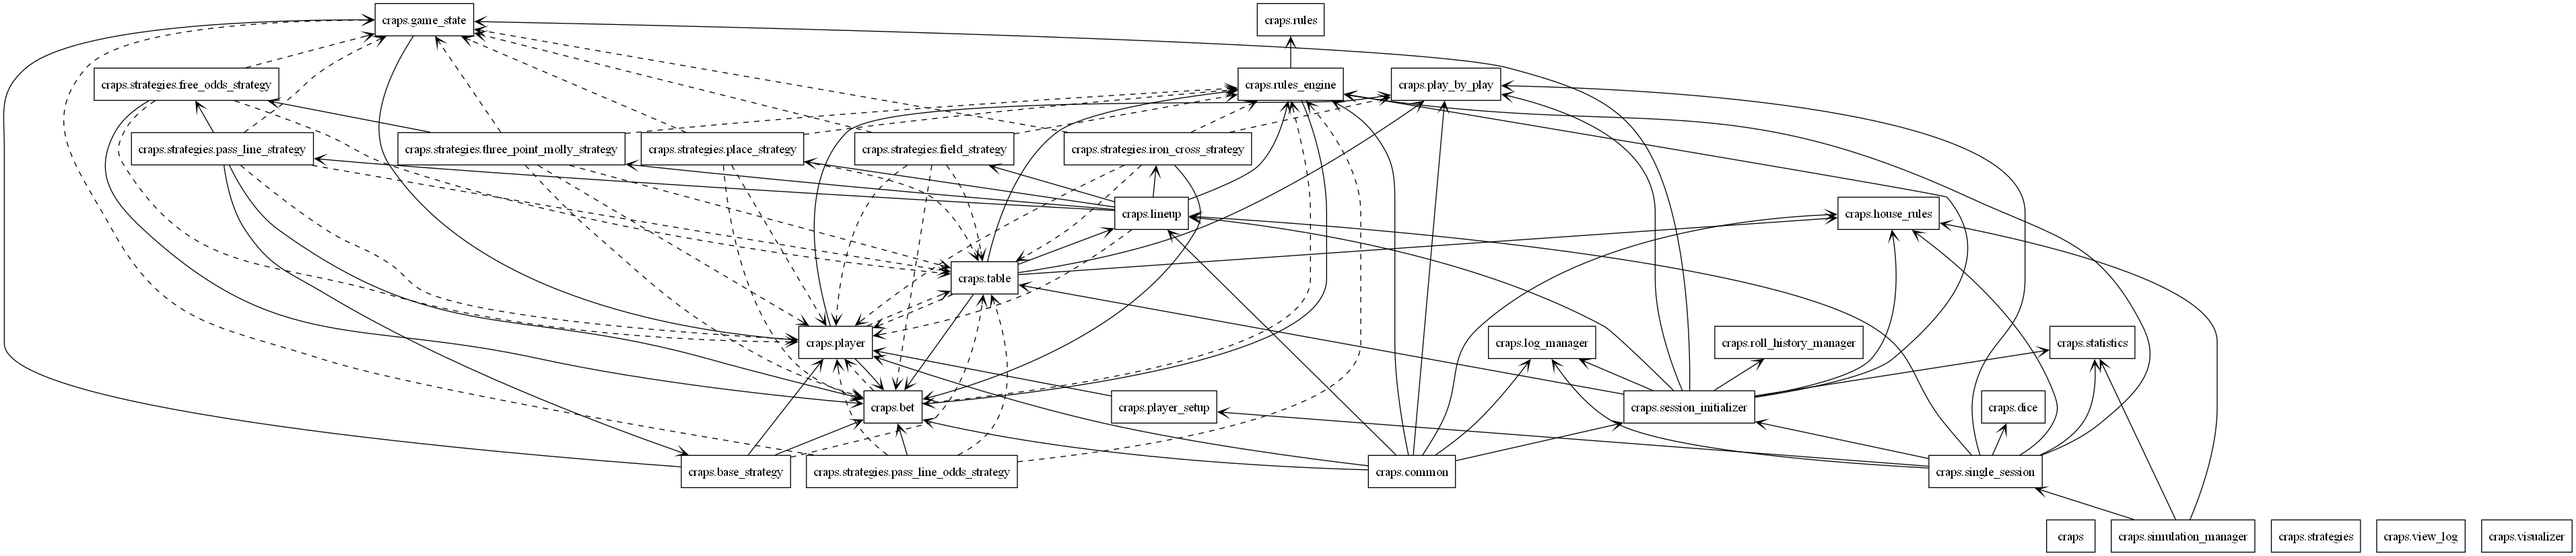
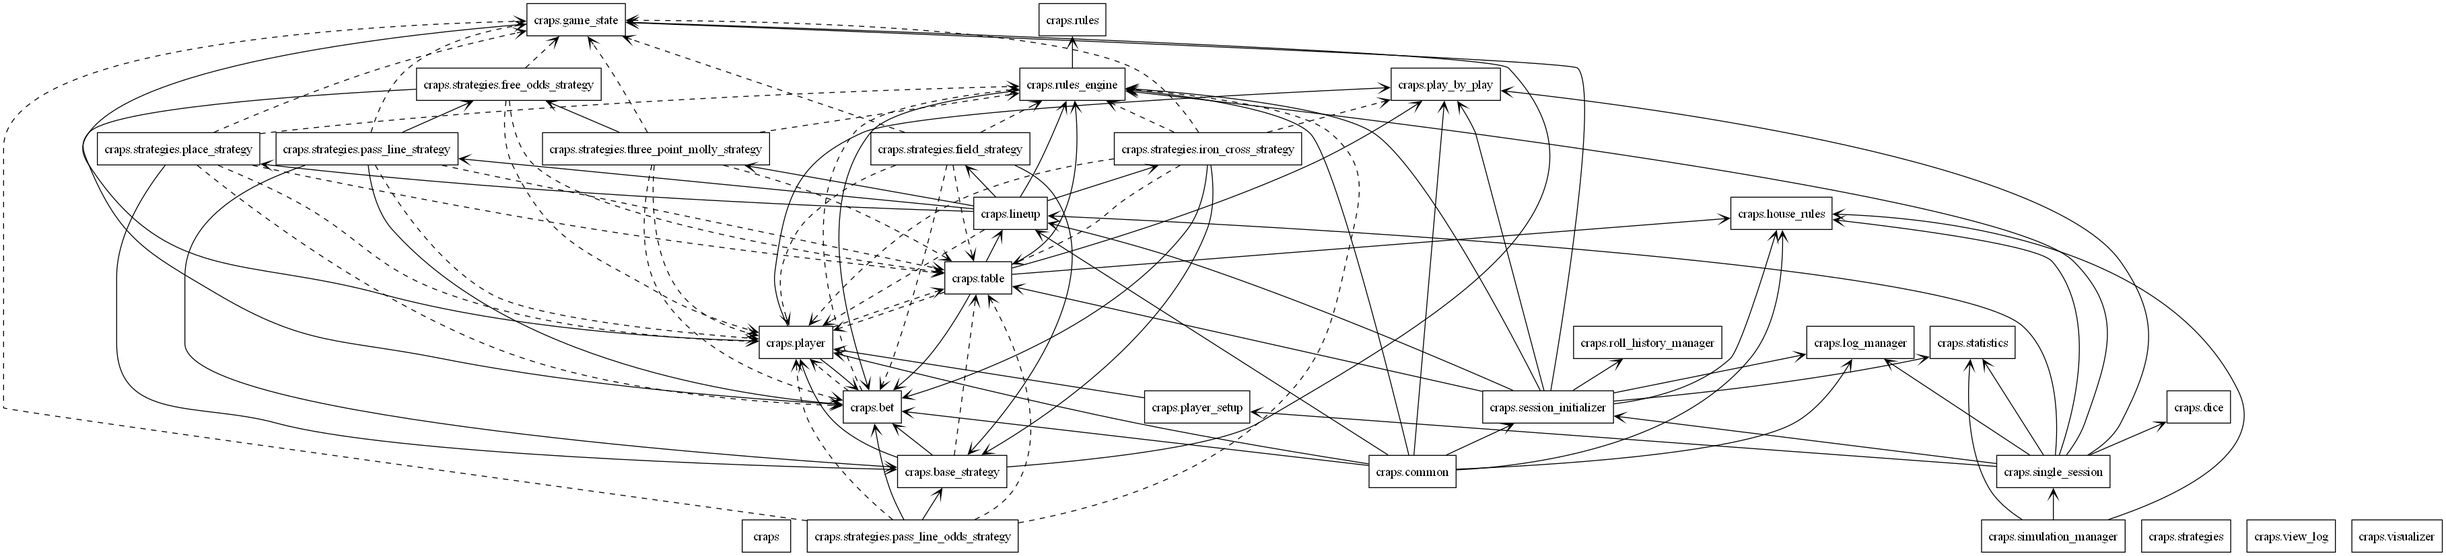
Refactored all Strategies to Base Strategy

diff --git a/craps/strategies/pass_line_odds_strategy.py b/craps/strategies/pass_line_odds_strategy.py
@@ -1,6 +1,7 @@
 from __future__ import annotations  # Enable forward references for type hints
-from typing import TYPE_CHECKING, Optional
+from typing import TYPE_CHECKING, List
 from craps.bet import Bet
+from craps.base_strategy import BaseStrategy
 
 if TYPE_CHECKING:
     from craps.table import Table  # Prevents circular imports
@@ -8,7 +9,7 @@ if TYPE_CHECKING:
     from craps.game_state import GameState
     from craps.player import Player
 
-class PassLineOddsStrategy:
+class PassLineOddsStrategy(BaseStrategy):
     """Betting strategy for Pass Line with Odds bets."""
 
     def __init__(self, table: Table, rules_engine: RulesEngine, odds_multiple: int = 1) -> None:
@@ -19,12 +20,13 @@ class PassLineOddsStrategy:
         :param rules_engine: The RulesEngine instance from the table.
         :param odds_multiple: The multiple of the minimum bet to use for odds (e.g., 1x, 2x).
         """
+        super().__init__("Pass Line Odds")
         self.table: Table = table
         self.rules_engine: RulesEngine = rules_engine
         self.odds_multiple: int = odds_multiple
 
 
-    def get_bet(self, game_state: GameState, player: Player, table: Table) -> Optional[Bet]:
+    def place_bets(self, game_state: GameState, player: Player, table: Table) -> List[Bet]:
         """
         Place a Pass Line or Pass Line Odds bet based on the game state.
 
@@ -36,20 +38,20 @@ class PassLineOddsStrategy:
         rules_engine = self.rules_engine  # Use the passed RulesEngine
 
         if game_state.phase not in ["come-out", "point"]:
-            return None  # Do not place the bet if the phase is invalid
+            return []  # Do not place the bet if the phase is invalid
 
         if game_state.phase == "come-out":
             # Check if the player already has an active Pass Line bet
             if player.has_active_bet(table, "Pass Line"):
-                return None  # No new bet to place
+                return []  # No new bet to place
 
             # Use RulesEngine to create a Pass Line bet
-            return rules_engine.create_bet("Pass Line", self.table.house_rules.table_minimum, player)
+            return [rules_engine.create_bet("Pass Line", self.table.house_rules.table_minimum, player)]
 
         elif game_state.phase == "point":
             # Check if the player already has an active Pass Line Odds bet
             if player.has_active_bet(table, "Pass Line Odds"):
-                return None  # No new bet to place
+                return []  # No new bet to place
 
             # Find the player's active Pass Line bet
             pass_line_bet = next(
@@ -57,15 +59,15 @@ class PassLineOddsStrategy:
                 None
             )
             if pass_line_bet is None:
-                return None  # No Pass Line bet found
+                return []  # No Pass Line bet found
 
             # Use RulesEngine to create a Pass Line Odds bet linked to the Pass Line bet
-            return rules_engine.create_bet(
+            return [rules_engine.create_bet(
                 "Pass Line Odds",
                 self.table.house_rules.table_minimum * self.odds_multiple,  # Bet amount
                 player,  # Owner
                 number=game_state.point,  # Pass the current point number
                 parent_bet=pass_line_bet  # Parent Pass Line bet
-            )
+            )]
 
-        return None  # No bet to place
+        return []  # No bet to place

diff --git a/craps/strategies/place_strategy.py b/craps/strategies/place_strategy.py
@@ -1,5 +1,6 @@
 from __future__ import annotations  # Enable forward references for type hints
 from typing import Union, TYPE_CHECKING, Optional, List
+from craps.base_strategy import BaseStrategy
 
 if TYPE_CHECKING:
     from craps.table import Table  # Prevents circular imports
@@ -8,7 +9,7 @@ if TYPE_CHECKING:
     from craps.player import Player
     from craps.bet import Bet
 
-class PlaceBetStrategy:
+class PlaceBetStrategy(BaseStrategy):
     """Betting strategy for Place Bets."""
 
     def __init__(self, table: Table, rules_engine: RulesEngine, numbers_or_strategy: Union[str, list[int]]) -> None:
@@ -19,14 +20,15 @@ class PlaceBetStrategy:
         :param rules_engine: The RulesEngine instance from the table.
         :param numbers_or_strategy: A list of numbers (e.g., [5, 6, 8, 9]) or a strategy ("inside", "across").
         """
+        super().__init__("Place")
         self.table: Table = table
         self.rules_engine: RulesEngine = rules_engine  # Use the existing RulesEngine
         self.numbers_or_strategy: Union[str, list[int]] = numbers_or_strategy
 
-    def get_bet(self, game_state: GameState, player: Player, table: Table) -> Optional[List[Bet]]:
+    def place_bets(self, game_state: GameState, player: Player, table: Table) -> List[Bet]:
         """Place Place Bets based on the strategy and game state."""
         if game_state.phase != "point":
-            return None  # Only place bets after the point is established
+            return []  # Only place bets after the point is established
 
         rules_engine = table.get_rules_engine()
 
@@ -57,4 +59,4 @@ class PlaceBetStrategy:
             min_bet = rules_engine.get_minimum_bet("Place", table)  # Use correct RulesEngine reference
             bets.append(rules_engine.create_bet("Place", min_bet, player, number=number))
 
-        return bets if bets else None  # Return bets if any were created
+        return bets if bets else []  # Return bets if any were created

diff --git a/craps/strategies/field_strategy.py b/craps/strategies/field_strategy.py
@@ -1,7 +1,7 @@
-# File: .\craps\strategies\field_strategy.py
-
 from __future__ import annotations
-from typing import TYPE_CHECKING, Optional
+from typing import TYPE_CHECKING, List
+from craps.base_strategy import BaseStrategy
+
 if TYPE_CHECKING:
     from craps.rules_engine import RulesEngine  # Prevents circular imports
     from craps.game_state import GameState
@@ -9,7 +9,7 @@ if TYPE_CHECKING:
     from craps.table import Table
     from craps.bet import Bet
 
-class FieldBetStrategy:
+class FieldBetStrategy(BaseStrategy):
     """Betting strategy for Field bets."""
     
     def __init__(self, min_bet: int) -> None:
@@ -18,9 +18,10 @@ class FieldBetStrategy:
         
         :param min_bet: The minimum bet amount for the table.
         """
+        super().__init__("Field")
         self.min_bet: int = min_bet
 
-    def get_bet(self, game_state: GameState, player: Player, table: Table) -> Optional[Bet]:
+    def place_bets(self, game_state: GameState, player: Player, table: Table) -> List[Bet]:
         """
         Place a Field bet during the point roll if no active bet exists.
 
@@ -30,12 +31,12 @@ class FieldBetStrategy:
         :return: A Field bet if one does not already exist, otherwise None.
         """
         if game_state.phase != "point":
-            return None  # Only place bets after the point is established
+            return []  # Only place bets after the point is established
         
         # Check if the player already has an active Field bet
         if player.has_active_bet(table, "Field"):
-            return None  # No new bet to place
+            return []  # No new bet to place
 
         # Use RulesEngine to create a Field bet
         rules_engine = table.get_rules_engine()
-        return rules_engine.create_bet("Field", self.min_bet, player)
+        return [rules_engine.create_bet("Field", self.min_bet, player)]

diff --git a/craps/strategies/iron_cross_strategy.py b/craps/strategies/iron_cross_strategy.py
@@ -1,6 +1,7 @@
 from __future__ import annotations  # Enable forward references for type hints
 from typing import TYPE_CHECKING, Optional, List
 from craps.bet import Bet
+from craps.base_strategy import BaseStrategy
 
 if TYPE_CHECKING:
     from craps.table import Table  # Prevents circular imports
@@ -8,8 +9,8 @@ if TYPE_CHECKING:
     from craps.game_state import GameState
     from craps.player import Player
     from craps.play_by_play import PlayByPlay
-
-class IronCrossStrategy:
+    from craps.base_strategy import BaseStrategy
+class IronCrossStrategy(BaseStrategy):
     """Betting strategy for Iron Cross."""
 
     def __init__(self, table: Table, rules_engine: RulesEngine, min_bet: int, play_by_play: PlayByPlay) -> None:
@@ -21,12 +22,13 @@ class IronCrossStrategy:
         :param min_bet: The minimum bet amount for the table.
         :param play_by_play: The play-by-play logging instance.
         """
+        super().__init__("Iron Cross")
         self.table: Table = table
         self.rules_engine: RulesEngine = rules_engine
         self.min_bet: int = min_bet
         self.play_by_play: PlayByPlay = play_by_play
 
-    def get_bet(self, game_state: GameState, player: Player, table: Table) -> Optional[List[Bet]]:
+    def place_bets(self, game_state: GameState, player: Player, table: Table) -> List[Bet]:
         """
         Place bets for the Iron Cross strategy.
 
@@ -77,6 +79,6 @@ class IronCrossStrategy:
             if not any(bet.owner == player and bet.bet_type == "Field" for bet in table.bets):
                 bets.append(rules_engine.create_bet("Field", self.min_bet, player))
 
-            return bets if bets else None
+            return bets if bets else []
 
-        return None  # No bet to place
+        return []  # No bet to place

diff --git a/craps/strategies/pass_line_strategy.py b/craps/strategies/pass_line_strategy.py
@@ -12,7 +12,7 @@ if TYPE_CHECKING:
 class PassLineStrategy(BaseStrategy):
     """Pass Line betting strategy with optional odds."""
 
-    def __init__(self, bet_amount: int, table: Table, odds_type: Optional[str] = None):
+    def __init__(self, bet_amount: int, table: Table, odds_type: Optional[str] = None) -> None:
         """
         Initialize the Pass Line strategy.
 
@@ -34,5 +34,5 @@ class PassLineStrategy(BaseStrategy):
     def adjust_bets(self, game_state: GameState, player: Player, table: Table) -> Optional[List[Bet]]:
         """If an odds strategy is set, place odds bets when a point is established."""
         if self.odds_strategy and game_state.phase == "point":
-            return self.odds_strategy.get_bet(game_state, player)  # Delegate odds betting to FreeOddsStrategy
+            return self.odds_strategy.get_odds_bet(game_state, player)  # Delegate odds betting to FreeOddsStrategy
         return None

diff --git a/craps/strategies/three_point_molly_strategy.py b/craps/strategies/three_point_molly_strategy.py
@@ -54,7 +54,7 @@ class ThreePointMollyStrategy:
 
         # Place odds on active Pass Line and Come bets using FreeOddsStrategy
         if self.odds_strategy and game_state.phase == "point":
-            odds_bets = self.odds_strategy.get_bet(game_state, player)
+            odds_bets = self.odds_strategy.get_odds_bet(game_state, player)
             if odds_bets:
                 bets.extend(odds_bets)
 

diff --git a/craps/strategies/free_odds_strategy.py b/craps/strategies/free_odds_strategy.py
@@ -20,7 +20,7 @@ class FreeOddsStrategy:
         self.table = table
         self.odds_type = odds_type
 
-    def get_bet(self, game_state: GameState, player: Player) -> Optional[List[Bet]]:
+    def get_odds_bet(self, game_state: GameState, player: Player) -> Optional[List[Bet]]:
         """
         Place Free Odds bets on any active bets for the player.
 
